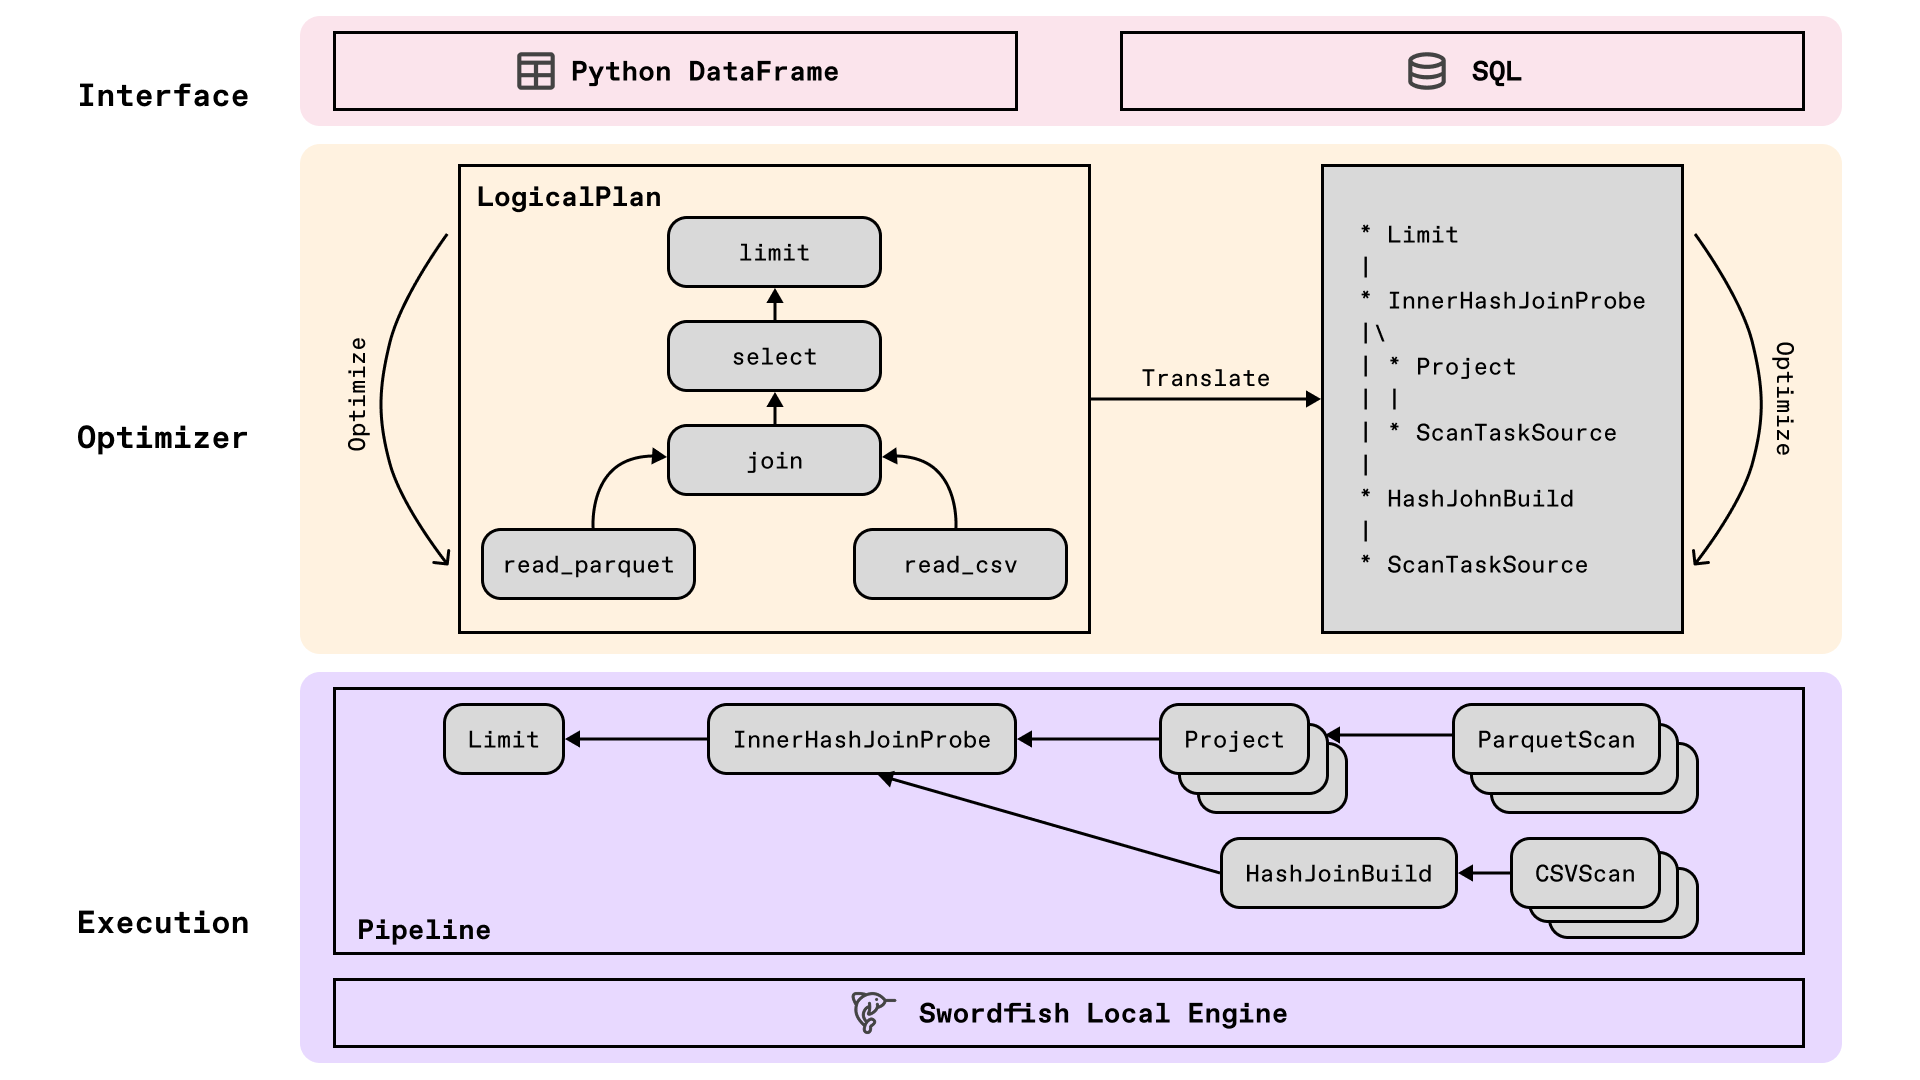
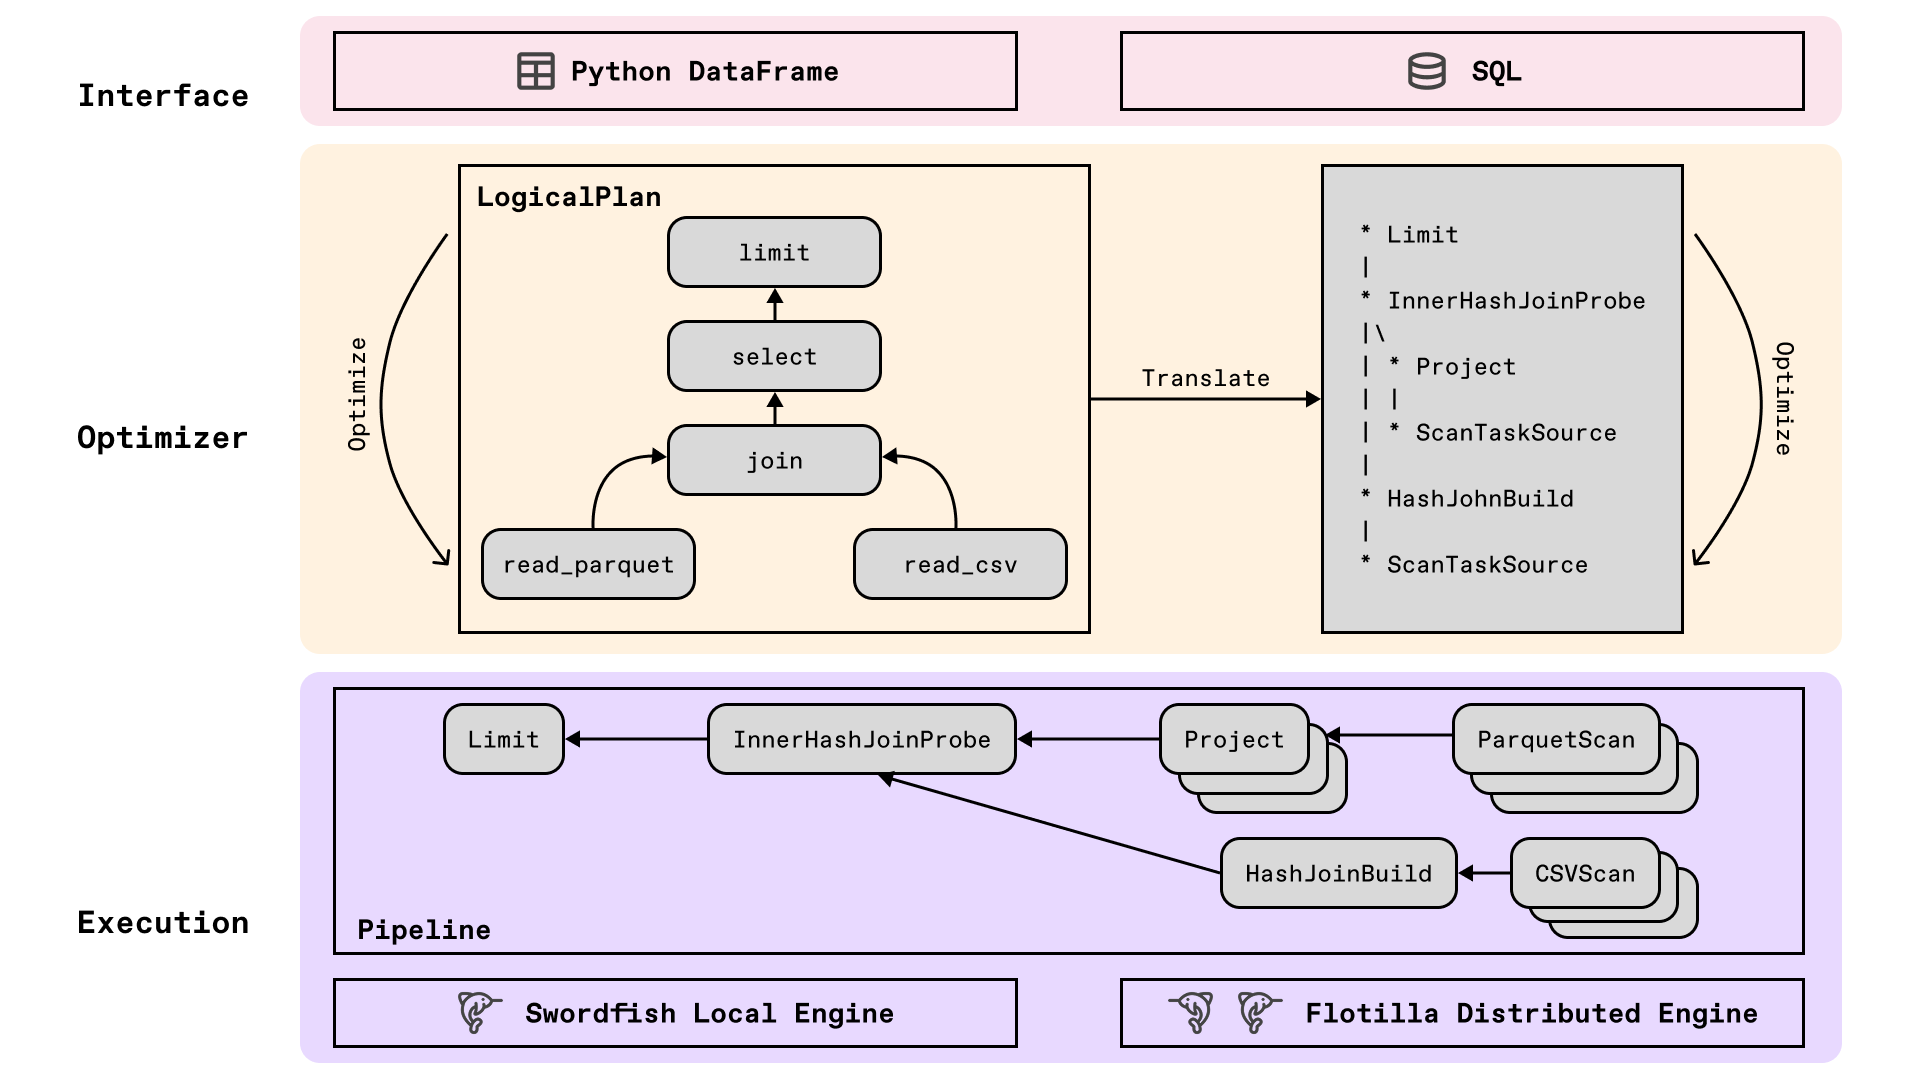
final edits

Changed region(s): [[0.2188, 0.9167, 0.9062, 0.9472]]

diff --git a/docs/architecture/index.md b/docs/architecture/index.md
@@ -33,7 +33,7 @@ Internally, this becomes a simple expression attached to the `Project` operator:
 
 ## Optimization
 
-Executing the logical plan as written would be correct but often inefficient. Daft applies both rule-based and cost-based optimization when a materalizing operation such as `collect()` or `write()` is invoked.
+Executing the logical plan as written would be correct but often inefficient. Daft applies both rule-based and cost-based optimization when a materalizing operation such as `collect()` or `write_parquet()` is invoked.
 
 - **Rule-based pass.** Classical rewrite rules execute first: filter, projection, limit, and aggregation pushdowns; projection folding and splitting; pruning redundant repartitions; expression simplification; and subquery unnesting. These transform the plan structure without needing runtime statistics.
 - **Cost-based pass.** Joins are reordered using a brute-force enumerator that evaluates the cheapest ordering based on available statistics calculated from sources.
@@ -56,11 +56,11 @@ The native runner is a streaming execution engine implemented in Rust, using the
 Given a plan, the native runner constructs a graph of operators, where each operator corresponds to a node in the plan. Operators send data up the graph via async channels.
 Once the graph is constructed, the runner initiates execution, which typically follows this pattern:
 
-- Source operators read data from local files or object stores. Each file typically becomes one `ScanTask`. A semaphore limits concurrent scans.
-- Intermediate operators (e.g. Project, Filter, UDF) receive chunks of data from previous operators, immediately transform them, and send them to the next operator.
-- Sinks receive and batch up chunks of data. Streaming sinks (e.g. Limit) can emit early, while blocking sinks (e.g. Aggregate, Sort) accumulate data and only emit results once all input has been processed.
+- Source operators read data from local files or object stores, and emit them in batches at a time.
+- Intermediate operators (e.g. Project, Filter, UDF) receive batches of data from previous operators, immediately transform them, and send them to the next operator.
+- Sinks receive and accumulate batches of data. Streaming sinks (e.g. Limit) can emit early, while blocking sinks (e.g. Aggregate, Sort) only emit results once all input has been processed.
 
-Operators determine their own parallelism and batch sizing, and the engine schedules work across operators on a threadpool (Tokio).
+Operators determine their own parallelism and batching, and the engine schedules work across operators on a threadpool (Tokio). The default batch size is 131,072 rows, but certain operations such as UDFs can have custom batch sizes.
 
 ### Ray Runner (aka Flotilla)
 
@@ -70,6 +70,11 @@ The Ray runner is a distributed execution engine built on top of Ray.
 
 A Ray cluster contains a single head node, and all other nodes are worker nodes. On each worker node, Daft launches a single Ray actor that hosts an instance of the Swordfish engine.
 
-The Flotilla scheduler runs on the head node and distributes work across workers, monitors progress, and orchestrates data movement when needed. Tasks are assigned based on data locality and worker load, so computation runs close to the data while keeping cluster resources balanced.
+The Flotilla scheduler runs on the head node and distributes tasks across workers, monitors progress, and orchestrates data movement when needed. Each task corresponds to a partition of the DataFrame, and tasks are assigned based on data locality and worker load, so computation runs close to the data while keeping cluster resources balanced. The number of partitions typically corresponds to the number of input files.
 
-Each worker receives tasks and executes it using the Swordfish streaming engine with full access to the machine's resources. Outputs of the tasks are written to Ray's object store, and can be moved between workers for global operations like groupbys and joins.
+!!! tip "Controlling partitioning"
+
+    See our [Partitioning Guide](../optimization/partitioning.md) to learn how to control the number and distribution of partitions in your DataFrame
+
+
+Each worker receives tasks and executes them using the Swordfish streaming engine with full access to the machine's resources. Outputs of the tasks are written to Ray's object store, and can be moved between workers for global operations like groupbys and joins.
